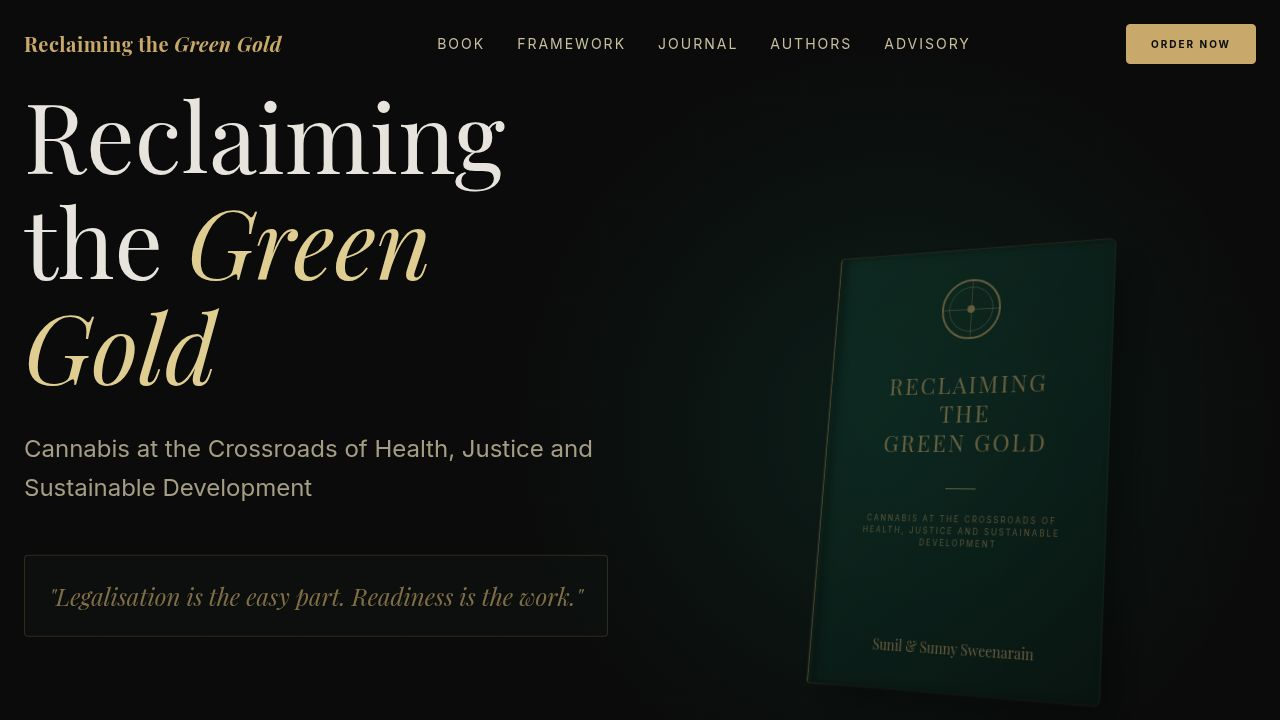
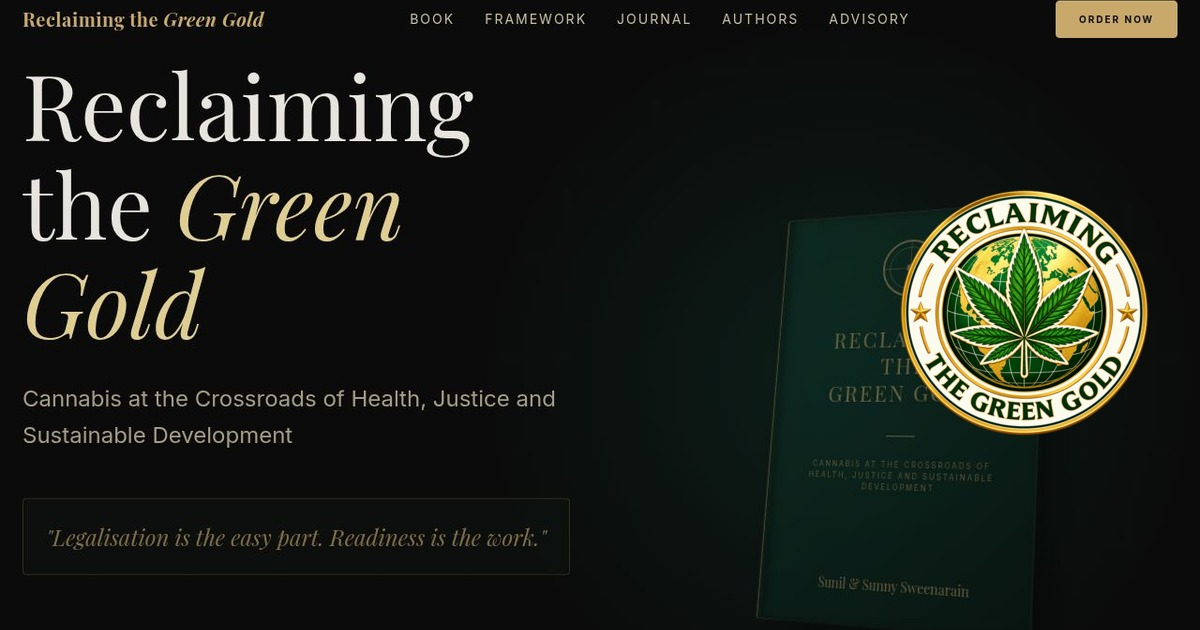
Fix social sharing metadata and preview image

diff --git a/artifacts/rgg-website/index.html b/artifacts/rgg-website/index.html
@@ -3,22 +3,24 @@
   <head>
     <meta charset="UTF-8" />
     <meta name="viewport" content="width=device-width, initial-scale=1.0, maximum-scale=1" />
-    <title>Reclaiming the Green Gold | Cannabis Governance</title>
-    <meta name="description" content="Explore a global framework for cannabis governance, sustainable development, public health, justice and inclusive economic transformation." />
+    <title>Reclaiming the Green Gold</title>
+    <meta name="description" content="Cannabis at the Crossroads of Health, Justice and Sustainable Development." />
     <meta name="robots" content="index, follow" />
-    <meta property="og:title" content="Reclaiming the Green Gold | Cannabis Governance" />
-    <meta property="og:description" content="Explore a global framework for cannabis governance, sustainable development, public health, justice and inclusive economic transformation." />
+    <meta property="og:title" content="Reclaiming the Green Gold" />
+    <meta property="og:description" content="Cannabis at the Crossroads of Health, Justice and Sustainable Development." />
     <meta property="og:site_name" content="Reclaiming the Green Gold" />
     <meta property="og:type" content="website" />
-    <meta property="og:url" content="/" />
-    <meta property="og:image" content="%BASE_URL%opengraph.jpg" />
+    <meta property="og:url" content="https://reclaimingthegreengold.com/" />
+    <meta property="og:image" content="https://reclaimingthegreengold.com/opengraph.jpg" />
+    <meta property="og:image:width" content="1200" />
+    <meta property="og:image:height" content="630" />
     <meta property="og:locale" content="en_GB" />
     <meta property="og:locale:alternate" content="fr_FR" />
     <meta name="twitter:card" content="summary_large_image" />
-    <meta name="twitter:title" content="Reclaiming the Green Gold | Cannabis Governance" />
-    <meta name="twitter:description" content="Explore a global framework for cannabis governance, sustainable development, public health, justice and inclusive economic transformation." />
-    <meta name="twitter:image" content="%BASE_URL%opengraph.jpg" />
-    <link rel="canonical" href="https://luxury-web-estate.replit.app/" />
+    <meta name="twitter:title" content="Reclaiming the Green Gold" />
+    <meta name="twitter:description" content="Cannabis at the Crossroads of Health, Justice and Sustainable Development." />
+    <meta name="twitter:image" content="https://reclaimingthegreengold.com/opengraph.jpg" />
+    <link rel="canonical" href="https://reclaimingthegreengold.com/" />
     <link rel="icon" href="%BASE_URL%favicon.ico?v=3" sizes="any" />
     <link rel="icon" type="image/png" sizes="64x64" href="%BASE_URL%rgg-favicon.png?v=3" />
     <link rel="shortcut icon" href="%BASE_URL%favicon.ico?v=3" />

diff --git a/artifacts/rgg-website/src/lib/pageMetadata.ts b/artifacts/rgg-website/src/lib/pageMetadata.ts
@@ -165,9 +165,9 @@ export const PUBLIC_ROUTE_PATHS = [
 
 export const ROUTE_METADATA: Record<string, PageMetadata> = {
   "/": {
-    title: "Reclaiming the Green Gold | Cannabis Governance",
+    title: "Reclaiming the Green Gold",
     description:
-      "Explore a global framework for cannabis governance, sustainable development, public health, justice and inclusive economic transformation.",
+      "Cannabis at the Crossroads of Health, Justice and Sustainable Development.",
   },
   "/book": {
     title: "The Book | Reclaiming the Green Gold",

diff --git a/artifacts/rgg-website/src/lib/pageMetadata.test.ts b/artifacts/rgg-website/src/lib/pageMetadata.test.ts
@@ -17,6 +17,14 @@ describe("public page metadata", () => {
     });
   });
 
+  it("uses the approved homepage sharing metadata", () => {
+    expect(ROUTE_METADATA["/"]).toEqual({
+      title: "Reclaiming the Green Gold",
+      description:
+        "Cannabis at the Crossroads of Health, Justice and Sustainable Development.",
+    });
+  });
+
   it("uses publication SEO fields rather than deriving article facts from its slug", () => {
     const metadata = metadataForPublication({
       id: "publication-1",
